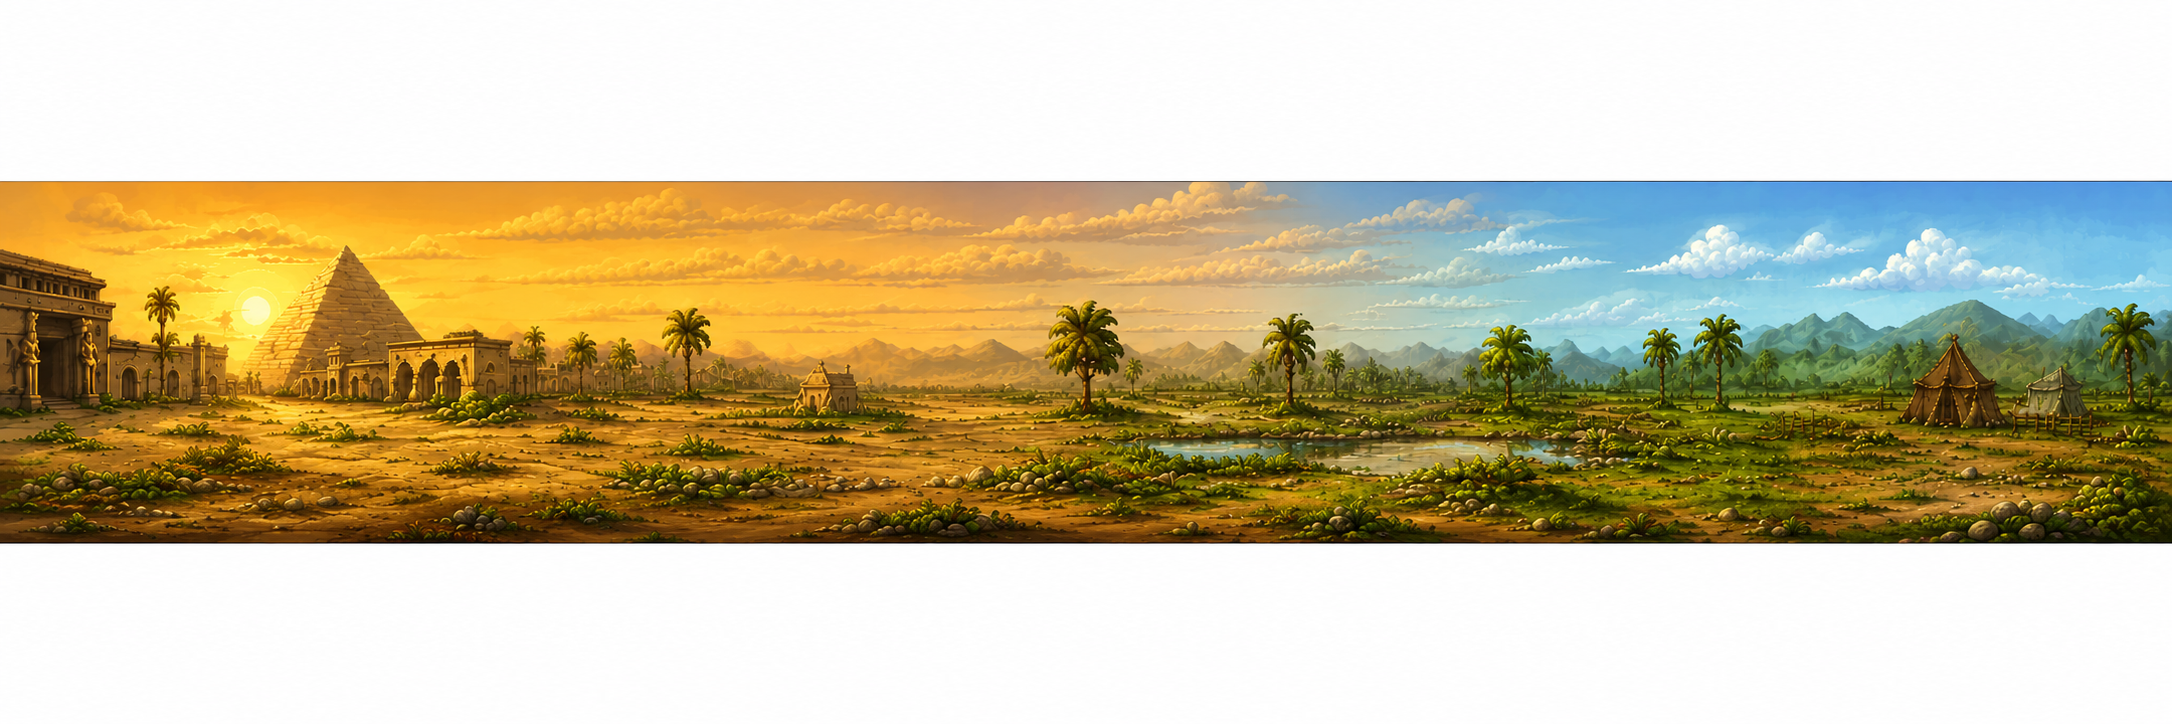
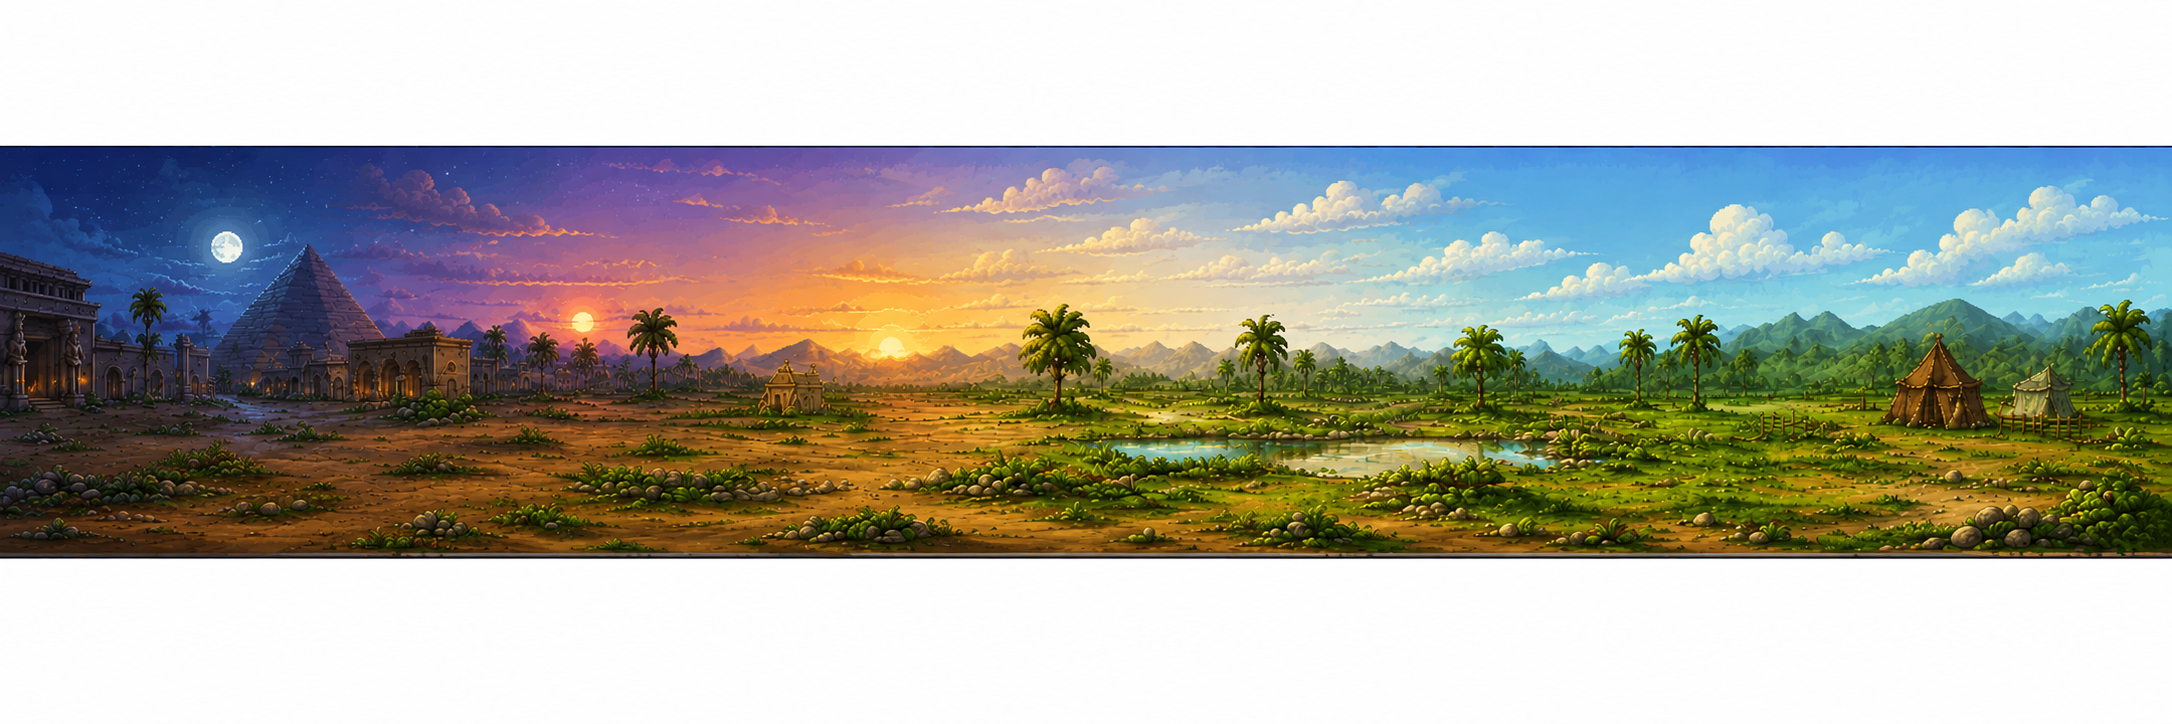
Leg 1 backdrop: the departure now actually happens at night
Replaces the Rameses-to-Succoth panorama with one that runs night to day
rather than sunset to day. Exodus 12:31 has Pharaoh calling for Moses and
Aaron in the night and sending them out, so the leg should begin under a
moon — the old art started at dusk and never showed it.

Walking the leg now reads: moon over Rameses and the lit temple facades
at 0km, dawn breaking by 10km, full morning by 20km, and daylight over
the tents at Succoth on arrival.

Cropped out of the source's white matting and the anti-aliased rows
against its border, then exported at exactly 360px tall so Phaser draws
it at scale 1.0 with no runtime resampling. 1916x360, 202KB.

Also corrects the backdrop brief in PLAN.md, which had the width rule
backwards. The scroll factor is min((width - 640) / (legKm * 200), 1), so
art *narrower* than legKm * 200 + 640 is consumed exactly edge to edge —
which is the stated design goal — while art *wider* than that pins to 1:1
and the player arrives before reaching its right edge. The old text told
the artist the opposite, and quoted a minimum the shipped art never met.

290 tests pass, content validates, production build clean.

diff --git a/PLAN.md b/PLAN.md
@@ -108,11 +108,16 @@ right edge as you reach the camp. Legs without art fall back to generated layers
 legs 2–12 stay playable before their art exists.
 
 Brief for the remaining eleven backdrops:
-- **One continuous panorama per leg**, scaled to the canvas height and at least
-  `legDistanceKm × 200` pixels wide once scaled (Leg 1: 2172px). Narrower art cannot
-  cover the leg and will run out before the camp.
-- **Never tiled**, so the lighting is free to travel across it — Leg 1 runs sunset over
-  Egypt to daylight at Succoth, which is the whole point of it.
+- **One continuous panorama per leg**, exported at exactly the canvas height (360px) so
+  Phaser draws it at scale 1.0 and never resamples it. Width is free: the scroll factor
+  is `min((width − 640) / (legDistanceKm × 200), 1)`, so **any** panorama narrower than
+  `legDistanceKm × 200 + 640` is consumed exactly edge to edge. Art *wider* than that is
+  the case to avoid — it pins to 1:1 and the player arrives before reaching its right
+  edge. For Leg 1 that ceiling is 6640px; the art in use is 1916px.
+- **Never tiled**, so the lighting is free to travel across it — Leg 1 runs night over
+  Rameses to full daylight at Succoth, which is the whole point of it. Exodus 12:31 has
+  Pharaoh sending them out in the night, so the leg begins under a moon and the sun
+  comes up as Egypt falls behind.
 - **Include the foreground.** A painted leg draws no generated ground; the artwork is
   the ground the household walks on, and covering its lower third throws away the best
   of it. The household stands at 72% of the canvas height.
